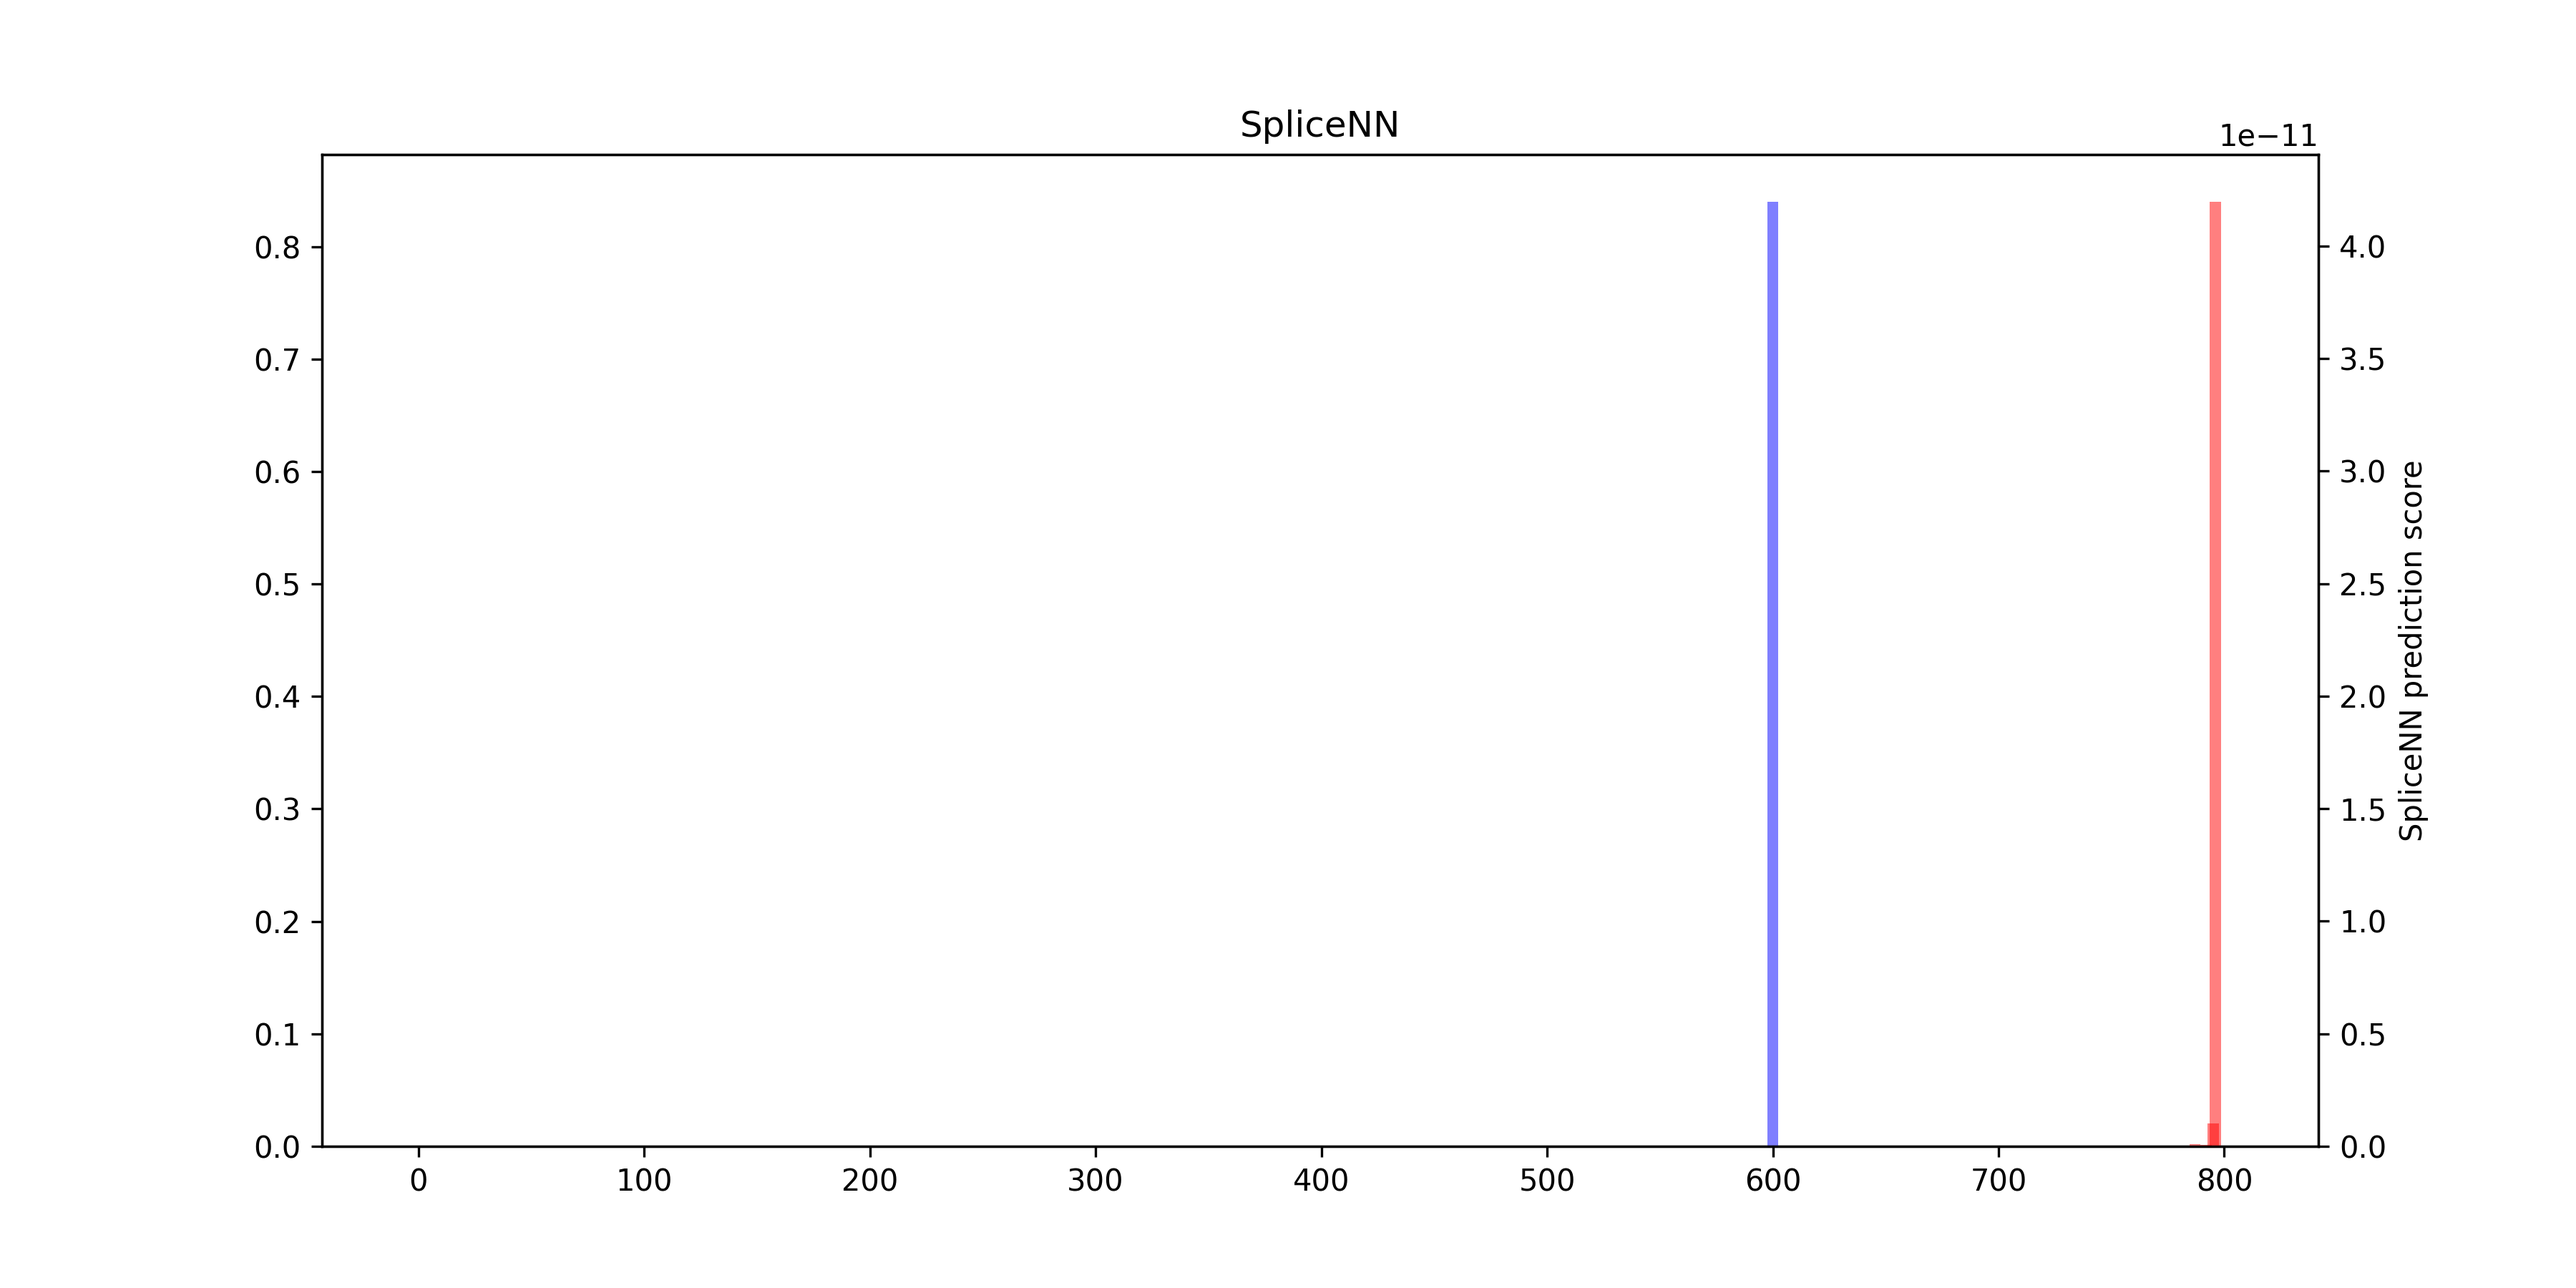
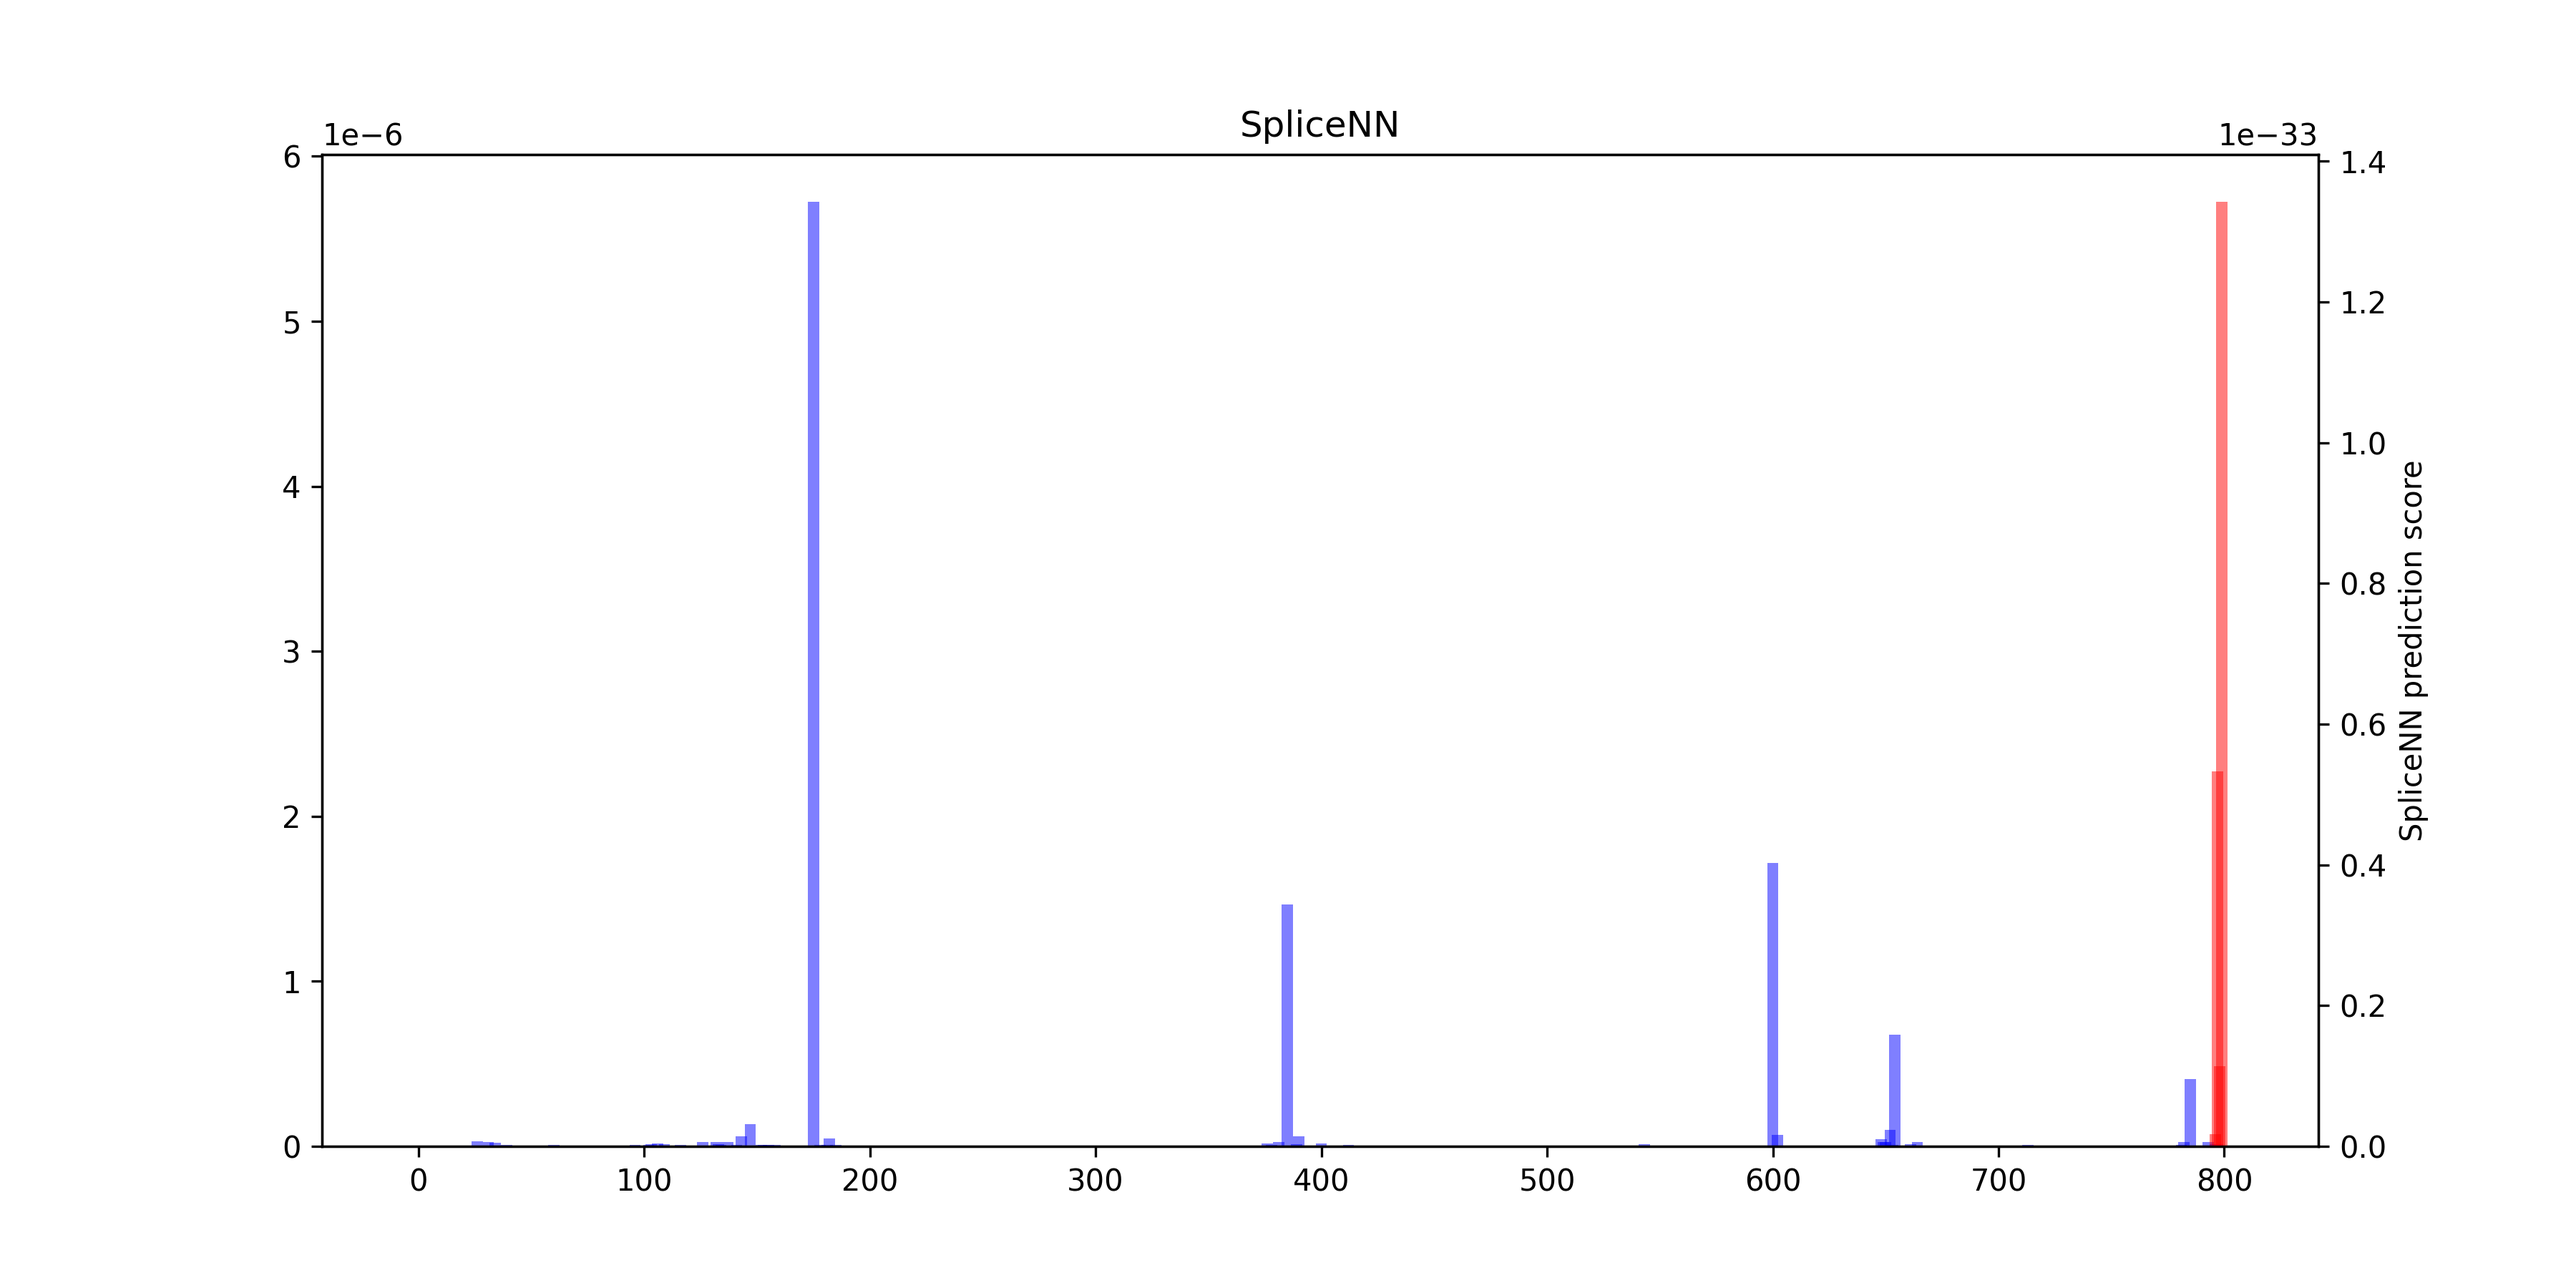
Using spliceAI model for prediction

diff --git a/src/SpliceNN_prediction.py b/src/SpliceNN_prediction.py
@@ -7,7 +7,7 @@ import matplotlib.pyplot as pl
 
 def main():
     device = torch.device("cuda" if torch.cuda.is_available() else "mps")
-    model = torch.load("./MODEL/prev/SpliceNN_9.pt")
+    model = torch.load("./MODEL/SpliceNN_4.pt")
     # seq = "AGTTCTTTATTGATTGGTGTGCCGTTTTCTCTGGAAGCCTCTTAAGAACACAGTGGCGCAGGCTGGGTGGAGCCGTCCCCCCATGGAGCACAGGCAGACAGAAGTCCCCGCCCCAGCTGTGTGGCCTCAAGCCAGCCTTCCGCTCCTTGAAGCTGGTCTCCACACAGTGCTGGTTCCGTCACCCCCTCCCAAGGAAGTAGGTCTGAGCAGCTTGTCCTGGCTGTGTCCATGTCAGAGCAACGGCCCAAGTCTGGGTCTGGGGGGGAAGGTGTCATGGAGCCCCCTACGATTCCCAGTCGTCCTCGTCCTCCTCTGCCTGTGGCTGCTGCGGTGGCGGCAGAGGAGGGATGGAGTCTGACACGCGGGCAAAGGCTCCTCCGGGCCCCTCACCAGCCCCAGGTTTATTGATTGGTGTGCCGTTTTCTCTGGAAGCCTCTTAAGAGAAGAACACAGTGGCGCAGGCTGGGTGGAGCCGTCCCCCCATGGAGCACAGGCAGACAAAAGTCCCCGCCCCAGCTGTGTGGCCTCAAGCCAGCCTTCCGCTCCTTGAAGCTGGTCTCCACACAGTGCTGGTTCCGTCACCCCCTCCCAAGGAAGTAGGTCTGAGCAGCTTGTCCTGGCTGTGTCCATGTCAGAGCAACGGCCCAAGTCTGGGTCTGGGGGGGAAGGTGTCATGGAGCCCCCTAGGATTCCCAGTCGTCCTCGTCCTCCTCTGCCTGTGGCTGCTGCGGTGGCGGCAGAGGAGGGATGGAGTCTGACACGCGGGCAAAGGCTCCTCCGGGCCCCTCACCAGCCCCAGG"
 
     seq = "AGGCTGAGGCAGGCAGATCATCTGAGGTCAGGAGTTCAGGACCAGCCTGGCCAACATGATGAAACCGCGTCTCTACTGAAAATACCAAAATTAGAGGGGCATGGTGGTGGTCACCTGTAATCCCAGCTACTTGGGAGGCCGAGGCAGGAGAACTGCTCAAAACTGGGAGGCAGAGGTTGCAGTGAGCCGAGATCACGCCACGACACTCCAGCCTGGGTGGCAGAGCAAGACTCTGTCTCAAAAAAAAAAAAAAGATACCTCATTATAATTTTAATTATAGTTTTGAACACCAGTAAGGTTACACACTTTTTCTTATGAATGTTATTTGTCTATTTTGAAATAGCTTTCTAATAATCACAATCTAAATCTACTTTATTCCTGAAAGGTCAGTTGTGGGTTGCATGTGGAAAATGCTCCTCTGCAGCAGAAGTATAATTGCCTTTCATTCCTTCGAGATGCTCTTGCAGGAGTAGGCAAGAATGTTGATCTGCCATCTATTCTTAACAAGGAGAGAAAGCAGAAATGTGGACTAAGGATTGTTAGGGGAAAGCAATTTAGATGGAATCAGGTACTACAATGTGCCAAATGATATGATGATTAGATCTGTTTGAACCCTGTTTAAGCCTTTATGAGGATTTTTTTTTAATGGCAAACTATCTTGGAGCTCTGCCCACAAGGCAAATGGCTACTAACCAAAGACTATTTATTTGCAGAAAATCCATCAAAGTCGTTACATGCAGATGAGTCACAAAGAGAAGATATCATCCTTTCATGATCCCCAGCCCCACTTCACCAAACTG"
